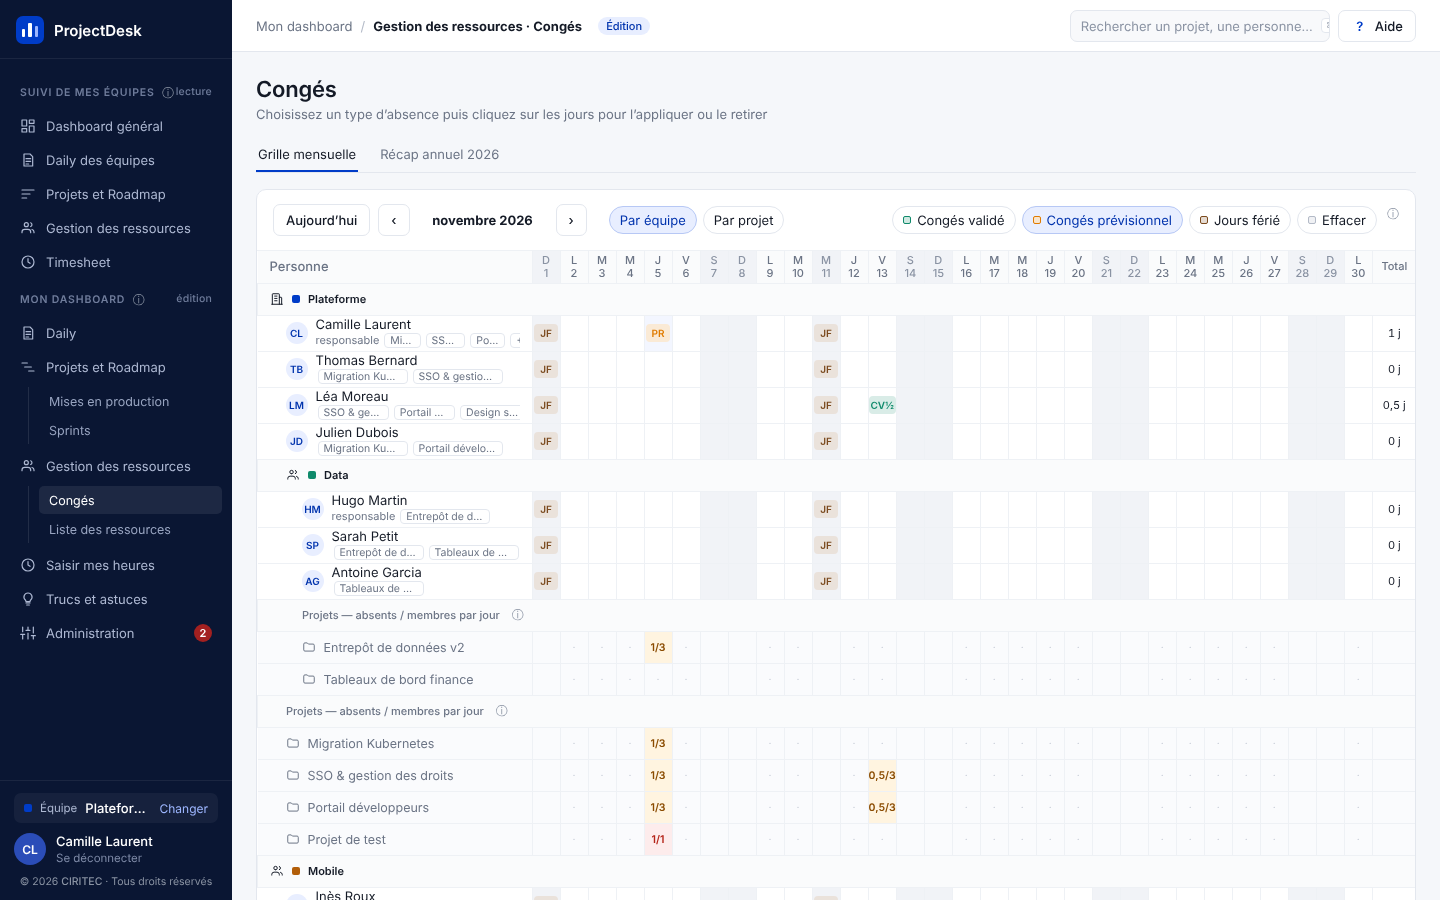
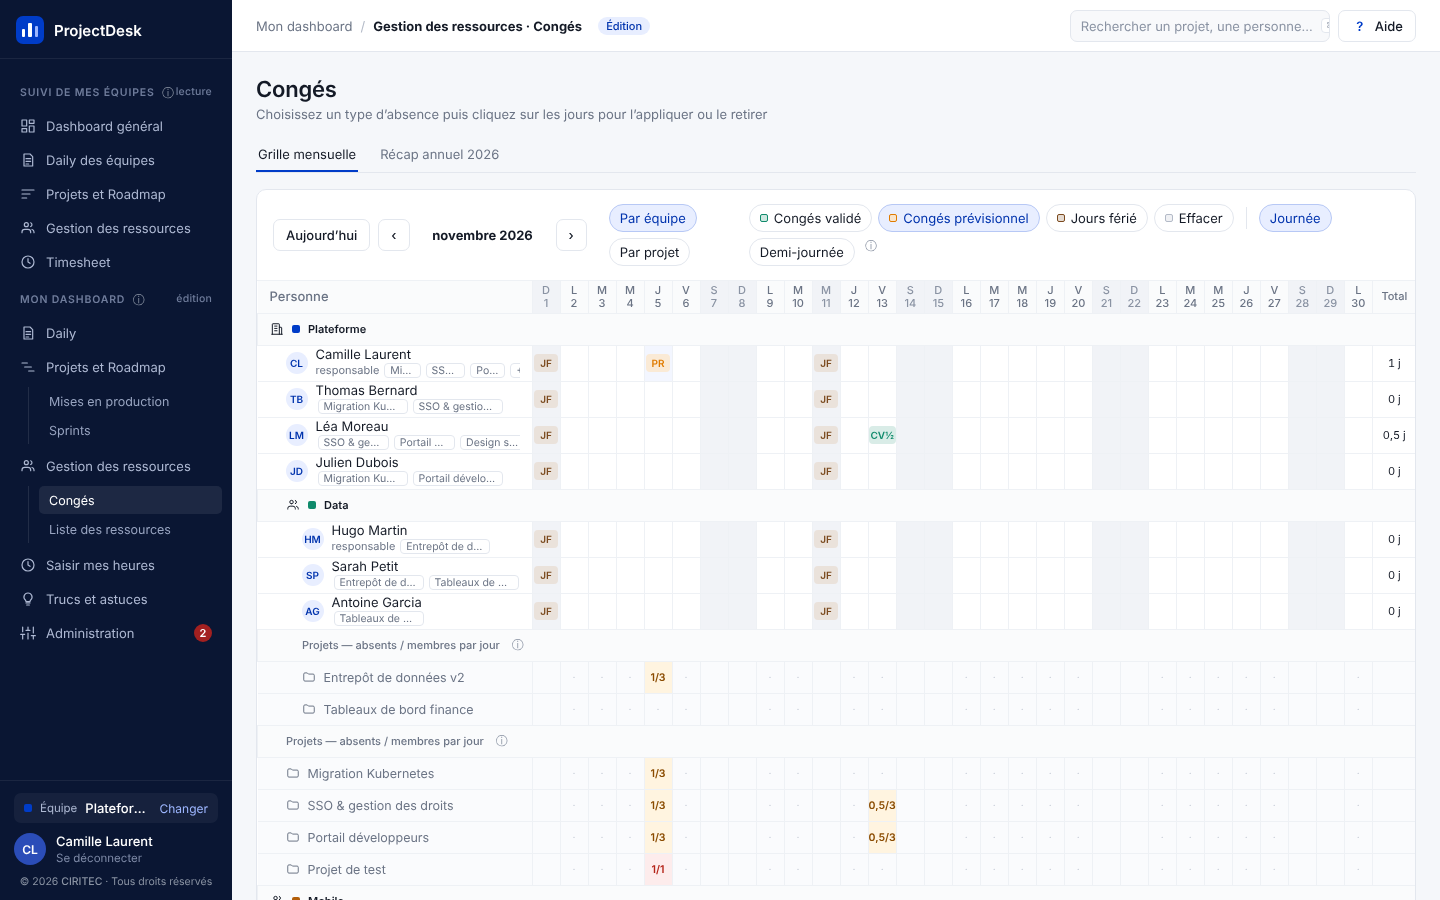
Congés : demi-journée posable à la main (2.55)
Claude-Session: https://claude.ai/code/session_016gJ86ah3wuZcBiGAqfo7RG

diff --git a/app/js/ecrans/conges.js b/app/js/ecrans/conges.js
@@ -15,6 +15,8 @@ Ecrans.conges = {
   titre: 'Gestion des ressources · Congés',
   section: 'moi',
   pinceau: () => ui('conges', { pinceau: ABSENCES.CP }).pinceau,
+  // Durée posée par un clic : 1 (journée) ou 0,5 (demi-journée) ; choisie avec le type d'absence (porteur 2026-10-26)
+  duree: () => ui('conges', { duree: 1 }).duree,
 
   /* ---------- Onglet Récap annuel : jours travaillés / congés / reste à prendre ----------
      Reprise de l'onglet « Jours de congés » du fichier du porteur (maquette
@@ -87,13 +89,15 @@ Ecrans.conges = {
     const pinceaux = [...valeursDe('abs').map(t => ({ id: t.libelle, libelle: t.libelle, couleur: t.couleur })), { id: 'effacer', libelle: 'Effacer', couleur: COULEURS.effacer }]
       .map(p => `<button class="puce${p.id === pinceau ? ' active' : ''}" data-action="choisirPinceau" data-id="${esc(p.id)}">
         <span class="pastille" style="background:${C.teinte(p.couleur, .2)};border:1px solid ${p.couleur}"></span>${esc(p.libelle)}</button>`).join('');
+    const durees = [[1, 'Journée'], [0.5, 'Demi-journée']].map(([valeur, libelle]) =>
+      `<button class="puce${valeur === this.duree() ? ' active' : ''}" data-action="choisirDuree" data-duree="${valeur}">${libelle}</button>`).join('');
 
     // Contenu de chaque onglet
     const liste = this.onglets(annee), onglet = ongletAffiche(liste, ui('conges', { onglet: 'grille' }).onglet);
     if (!onglet) return `<div class="ecran">${C.entete('Congés', '')}${C.aucunOnglet()}</div>`;
     // Sélecteur de mois juste au-dessus du calendrier, à gauche (demande du porteur)
     const grille = `<div class="carte"><div class="carte-titre"><div class="ligne-flex">${Calendrier.navigation()}${Calendrier.selecteurVue()}</div>
-      <div class="puces">${pinceaux}${C.aide('pinceau')}</div></div>${Calendrier.rendre(true)}</div>`;
+      <div class="puces">${pinceaux}<span class="separateur-puces"></span>${durees}${C.aide('pinceau')}</div></div>${Calendrier.rendre(true)}</div>`;
     const recapAnnuel = this.recap(annee);
     const onglets = C.onglets(liste, onglet, 'ongletConges');
 
@@ -118,17 +122,18 @@ Object.assign(Actions, {
     executer(() => Api.creer('objectifs_jours_travail', { equipeId: d.equipe, annee: Number(d.annee), jours }, 'equipe_id,annee'), 'objectifsTravail');
   },
   choisirPinceau: d => majUi('conges', { pinceau: d.id }),
+  choisirDuree: d => majUi('conges', { duree: Number(d.duree) }),
 
-  // Clic sur un jour : applique le type choisi, ou retire l'absence si c'est le même type (ou « Effacer »)
+  /* Clic sur un jour : pose le type et la durée choisis (journée ou demi-journée) ; retire l'absence si elle a déjà
+     ce type et cette durée (ou avec « Effacer ») ; même type mais autre durée : la durée est changée */
   basculerAbsence(d) {
-    const pinceau = Ecrans.conges.pinceau();
-    // (un clic pose toujours une journée entière ; les demi-journées viennent de l'import du planning)
+    const pinceau = Ecrans.conges.pinceau(), duree = Ecrans.conges.duree();
     const existante = absenceDe(d.ressource, d.jour);
     const filtre = { ressource_id: 'eq.' + d.ressource, jour: 'eq.' + d.jour };
-    if (pinceau === 'effacer' || (existante && existante.type === pinceau)) {
+    if (pinceau === 'effacer' || (existante && existante.type === pinceau && Number(existante.duree || 1) === duree)) {
       if (existante) executer(() => Api.supprimer('absences', filtre), 'absences');
     } else {
-      executer(() => Api.creer('absences', { ressourceId: d.ressource, jour: d.jour, type: pinceau, duree: 1 }, 'ressource_id,jour'), 'absences');
+      executer(() => Api.creer('absences', { ressourceId: d.ressource, jour: d.jour, type: pinceau, duree }, 'ressource_id,jour'), 'absences');
     }
   }
 });

diff --git a/app/index.html b/app/index.html
@@ -11,7 +11,7 @@
 <link href="https://fonts.googleapis.com/css2?family=IBM+Plex+Sans:wght@400;500;600;700&family=IBM+Plex+Mono:wght@400;500&display=swap" rel="stylesheet">
 <!-- ?v= : version des fichiers (= version du DAT), à changer à chaque livraison : force le navigateur
      à recharger le code au lieu de réutiliser une ancienne copie en mémoire. -->
-<link rel="stylesheet" href="css/theme.css?v=2.54">
+<link rel="stylesheet" href="css/theme.css?v=2.55">
 </head>
 <body>
   <!-- Toute l'interface est dessinée dans #app par js/coquille.js et js/ecrans/*.js -->
@@ -19,32 +19,32 @@
   <div id="notification" class="notification" role="status"></div>
 
   <!-- Ordre de chargement : configuration, outils, état, puis écrans (qui s'enregistrent dans Ecrans) -->
-  <script src="js/config.js?v=2.54"></script>
-  <script src="js/api.js?v=2.54"></script>
-  <script src="js/calculs.js?v=2.54"></script>
-  <script src="js/etat.js?v=2.54"></script>
-  <script src="js/composants.js?v=2.54"></script>
-  <script src="js/coquille.js?v=2.54"></script>
-  <script src="js/panneau-projet.js?v=2.54"></script>
-  <script src="js/modale.js?v=2.54"></script>
-  <script src="js/excel.js?v=2.54"></script>
-  <script src="js/roles.js?v=2.54"></script>
-  <script src="js/simulation.js?v=2.54"></script>
-  <script src="js/ecrans/connexion.js?v=2.54"></script>
-  <script src="js/ecrans/choix-equipe.js?v=2.54"></script>
-  <script src="js/ecrans/dashboard.js?v=2.54"></script>
-  <script src="js/ecrans/projets.js?v=2.54"></script>
-  <script src="js/ecrans/ressources.js?v=2.54"></script>
-  <script src="js/ecrans/administration.js?v=2.54"></script>
-  <script src="js/ecrans/timesheet.js?v=2.54"></script>
-  <script src="js/ecrans/daily-equipes.js?v=2.54"></script>
-  <script src="js/ecrans/daily.js?v=2.54"></script>
-  <script src="js/ecrans/mes-projets.js?v=2.54"></script>
-  <script src="js/ecrans/sprints.js?v=2.54"></script>
-  <script src="js/ecrans/conges.js?v=2.54"></script>
-  <script src="js/ecrans/liste-ressources.js?v=2.54"></script>
-  <script src="js/ecrans/mon-timesheet.js?v=2.54"></script>
-  <script src="js/ecrans/mon-admin.js?v=2.54"></script>
-  <script src="js/ecrans/astuces.js?v=2.54"></script>
+  <script src="js/config.js?v=2.55"></script>
+  <script src="js/api.js?v=2.55"></script>
+  <script src="js/calculs.js?v=2.55"></script>
+  <script src="js/etat.js?v=2.55"></script>
+  <script src="js/composants.js?v=2.55"></script>
+  <script src="js/coquille.js?v=2.55"></script>
+  <script src="js/panneau-projet.js?v=2.55"></script>
+  <script src="js/modale.js?v=2.55"></script>
+  <script src="js/excel.js?v=2.55"></script>
+  <script src="js/roles.js?v=2.55"></script>
+  <script src="js/simulation.js?v=2.55"></script>
+  <script src="js/ecrans/connexion.js?v=2.55"></script>
+  <script src="js/ecrans/choix-equipe.js?v=2.55"></script>
+  <script src="js/ecrans/dashboard.js?v=2.55"></script>
+  <script src="js/ecrans/projets.js?v=2.55"></script>
+  <script src="js/ecrans/ressources.js?v=2.55"></script>
+  <script src="js/ecrans/administration.js?v=2.55"></script>
+  <script src="js/ecrans/timesheet.js?v=2.55"></script>
+  <script src="js/ecrans/daily-equipes.js?v=2.55"></script>
+  <script src="js/ecrans/daily.js?v=2.55"></script>
+  <script src="js/ecrans/mes-projets.js?v=2.55"></script>
+  <script src="js/ecrans/sprints.js?v=2.55"></script>
+  <script src="js/ecrans/conges.js?v=2.55"></script>
+  <script src="js/ecrans/liste-ressources.js?v=2.55"></script>
+  <script src="js/ecrans/mon-timesheet.js?v=2.55"></script>
+  <script src="js/ecrans/mon-admin.js?v=2.55"></script>
+  <script src="js/ecrans/astuces.js?v=2.55"></script>
 </body>
 </html>

diff --git a/tests/parcours.js b/tests/parcours.js
@@ -509,6 +509,18 @@ const verifier = (nom, condition, detail = '') => { resultats.push({ nom, ok: !!
     verifier('Données rafraîchies au changement d’écran (sans F5)', !avantNavigation && await page.evaluate(() => etat.d.absences.some(a => a.jour === '2026-11-20')));
     verifier('Lecture paginée : plus de 50 absences chargées malgré le plafond de 50 lignes par réponse', await page.evaluate(() => etat.d.absences.length > 50));
     verifier('Congés : absence posée', (await page.$$('td[data-action="basculerAbsence"] .case-absence')).length > 0);
+    // Demi-journée (porteur 2026-10-26) : durée choisie avec le type ; même type et même durée = retrait ; autre durée = changement
+    const cibleConges = await page.evaluate(() => { const td = [...document.querySelectorAll('td[data-action="basculerAbsence"]')].find(t => !t.querySelector('.case-absence'));
+      return td ? { ressource: td.dataset.ressource, jour: td.dataset.jour } : null; });
+    const celluleConges = `td[data-action="basculerAbsence"][data-ressource="${cibleConges.ressource}"][data-jour="${cibleConges.jour}"]`;
+    const dureeDe = () => page.evaluate(c => { const a = etat.d.absences.find(x => x.ressourceId === c.ressource && x.jour === c.jour); return a ? Number(a.duree) : null; }, cibleConges);
+    await page.click('[data-action="choisirDuree"][data-duree="0.5"]'); await page.waitForTimeout(150);
+    await page.click(celluleConges); await page.waitForTimeout(350); const apresDemi = await dureeDe();
+    await page.click('[data-action="choisirDuree"][data-duree="1"]'); await page.waitForTimeout(150);
+    await page.click(celluleConges); await page.waitForTimeout(350); const apresChangement = await dureeDe();
+    await page.click(celluleConges); await page.waitForTimeout(350); const apresRetrait = await dureeDe();
+    verifier('Congés : demi-journée posable (0,5), durée modifiable, retrait au clic suivant', apresDemi === 0.5 && apresChangement === 1 && apresRetrait === null,
+      `${apresDemi} / ${apresChangement} / ${apresRetrait}`);
 
     await aller('listeRessources');
     /* Liste des ressources (piste 3, 2026-10-09) : navigation à gauche, détail à droite.

diff --git a/app/js/config.js b/app/js/config.js
@@ -221,7 +221,8 @@ const AIDES = {
   tauxOccupation: `Heures saisies ÷ heures attendues de la semaine. Attendu = jours ouvrés (hors week-ends, fériés ` +
     `et absences) × ${CONFIG.HEURES_PAR_JOUR} h × capacité de chaque personne. Cible : ${CONFIG.CIBLE_OCCUPATION} %.`,
   projetsSurveiller: `Projets à risque, en retard, ou dont l’échéance tombe dans les ${CONFIG.ALERTE_ECHEANCE_JOURS} prochains jours.`,
-  pinceau: 'Choisissez un type puis cliquez sur un jour pour le poser ; cliquer à nouveau le retire. ' +
+  pinceau: 'Choisissez un type et une durée (journée ou demi-journée) puis cliquez sur un jour pour le poser ; cliquer à nouveau le retire. ' +
+    'Pour changer la durée d’un jour déjà posé, choisissez l’autre durée et cliquez dessus. ' +
     'Les jours fériés (JF) s’affichent automatiquement et ne se cliquent pas. « ½ » = demi-journée.',
   datesPresence: 'Facultatives. Les jours avant l’arrivée et après le départ ne comptent ni en jours travaillés, ni ' +
     'en congés, ni dans la capacité ; les jours attendus par le client sont proratisés sur la période de présence.',

diff --git a/app/css/theme.css b/app/css/theme.css
@@ -70,6 +70,7 @@ h2 { font-size: 15px; font-weight: 600; margin: 0; }
 .btn.succes { background: var(--succes); border-color: var(--succes); color: #fff; }
 .btn.danger { color: var(--danger); } .btn.petit { height: 26px; padding: 0 9px; font-size: 12px; }
 .btn[disabled] { opacity: .45; cursor: default; }
+.separateur-puces { width: 1px; height: 22px; background: var(--bordure); margin: 0 6px; align-self: center; }
 .lien-btn { background: none; border: 0; color: var(--primaire); cursor: pointer; padding: 0; }
 input.champ, select.champ, textarea.champ, .champ { height: 34px; border: 1px solid var(--bordure); border-radius: 7px; background: var(--fond-doux); padding: 0 10px; width: 100%; }
 textarea.champ { height: auto; padding: 8px 10px; resize: vertical; }

diff --git a/docs/DAT.md b/docs/DAT.md
@@ -169,6 +169,7 @@
 | 2.52    | 2026-10-26 | **Objectif de jours du client rétabli** (porteur : « dans le récap annuel, le nombre de jours travaillés imposé par le client n'est plus affiché ») : retour de la version 2.49 pour Congés › Récap annuel — jours attendus par le client modifiables par équipe et par année (défaut 218 j), colonne « Reste à prendre », proratisation à l'arrivée ou au départ ; constante `JOURS_TRAVAIL_CLIENT_DEFAUT`, aide `objectifClient`, chargement de `objectifs_jours_travail` et libellé du droit « Congés et objectif de jours des autres » restaurés. La table n'avait jamais été modifiée (sa ligne est intacte). Les OKR et le retrait des OKR des fiches pédagogiques restent. 141 contrôles |
 | 2.53    | 2026-10-26 | **Mon dashboard ne disparaît plus quand « Daily · Saisir mes heures » passe à Non ; choix d'équipe revu** (porteur : « j'ai mis Non pour le daily … et tout a disparu » ; « elle a le bouton Changer mais elle ne peut pas … je veux une croix pour fermer la pop-in »). (1) Le droit `mon_dashboard` (« Saisir son daily, ses heures et ses congés ») ne gouverne plus que les menus **Daily** et **Saisir mes heures** ; la section Mon dashboard se ferme seulement en **Lecture seule** (migration 030) ou quand aucun de ses menus n'est ouvert, chaque autre menu suivant ses propres lignes (Projets et Roadmap, Congés, Liste des ressources, Trucs et astuces, Administration) ; un écran fermé affiche « Écran non ouvert à votre rôle ». Conséquence : les rôles dont `mon_dashboard` est « Non » en base (Direction) voient désormais les menus de Mon dashboard que la matrice leur ouvre. Test ajouté : Responsable avec Daily à Non garde Congés, Astuces, Administration. (2) Le lien **Changer** d'équipe (barre latérale) n'apparaît que s'il y a un choix (au moins deux équipes ou une invitation) ; la fenêtre « Choix de l'équipe » a une **croix ✕** qui revient à l'écran précédent (plus de bouton Déconnexion tant qu'une équipe est ouverte ; le lien reste à la première connexion sans équipe ouverte et pour un compte en attente d'accès). Aucune donnée modifiée. 143 contrôles |
 | 2.54    | 2026-10-26 | **Statut du projet modifiable** (porteur : « c'est quoi ce statut Planifié ? » puis choix de le rendre modifiable, et d'en ajouter depuis Administration) : le panneau projet affiche le **statut** (liste déroulante pour qui peut modifier le projet : chef de projet, affecté Membre, responsable ou direction de l'unité, administrateur — règle `peut_editer_projet` + droit « Projets » ; badge en lecture sinon). La liste est celle du référentiel « Statuts projet » (`stp`) : **Administration › Référentiels** permet déjà d'en ajouter, renommer, recolorer, désactiver (les cinq statuts d'origine restent « système », renommables, non supprimables, et pilotent le Dashboard : À risque / En retard remontent dans « Projets à surveiller », Terminé sort des projets actifs ; un statut ajouté est neutre pour ces calculs). Un statut désactivé reste affiché sur les projets qui l'ont. Aucune migration : `projets.statut` est un texte libre sans contrainte. Aucune donnée touchée. 144 contrôles |
+| 2.55    | 2026-10-26 | **Demi-journée de congé posable à la main** (porteur : « dans Mon dashboard > Congés je ne peux pas mettre 0,5 de congés, je peux mettre que 1 ou 0 ») : Congés › Grille mensuelle : deux puces **Journée / Demi-journée** à côté des types d'absence ; un clic pose le type avec la durée choisie (`absences.duree` = 1 ou 0,5, colonne et contrainte de la migration 009), un second clic de même type et même durée retire l'absence, un clic avec l'autre durée la modifie. Le calcul (`Calculs.dureeAbsence`, jours travaillés, timesheet) comptait déjà 0,5 : seul le clic posait toujours 1. Aucune migration, aucune donnée touchée. 145 contrôles |
 | 1.44    | 2026-09-27 | Calcul type Scrum : formule déplacée dans une pop-in (bouton « Comment est-ce calculé ? » en haut à droite), avec un exemple chiffré sur CDO (membres, jours ouvrés, absences, cérémonies, focus) (§ 2.1, § 3.3) |
 
 ---
@@ -532,7 +533,7 @@ refusée sur `referentiels` et `administrateurs` (usurpation).
 | Outil | Contenu |
 |-------|---------|
 | `tests/serveur-simule.js` | Neon Auth (dont Google simulé) + Data API simulés en mémoire, identifiants numérotés (et non aléatoires) pour des captures reproductibles, données de la maquette (comptes `camille@test.fr` administratrice/owner, `thomas@test.fr` membre, `elodie@test.fr` demandeuse, `admin@test.fr` administratrice sans équipe ; mot de passe `motdepasse`) |
-| `tests/parcours.js` | Parcours Playwright de bout en bout (144 contrôles, dont « Suivi de mes équipes en lecture seule », l'aller-retour Google simulé, le parcours administrateur sans équipe, le daily des équipes, l'export Excel du daily, le plan de charge et le board des ressources) + captures `docs/maquettes/etat-actuel/` |
+| `tests/parcours.js` | Parcours Playwright de bout en bout (145 contrôles, dont « Suivi de mes équipes en lecture seule », l'aller-retour Google simulé, le parcours administrateur sans équipe, le daily des équipes, l'export Excel du daily, le plan de charge et le board des ressources) + captures `docs/maquettes/etat-actuel/` |
 | `scripts/verifier-docs.js` | Cohérence documentation ↔ code après chaque commit (§ 11) |
 
 Les règles RLS ne sont pas simulées : elles sont vérifiées en base et lors de la recette réelle.
